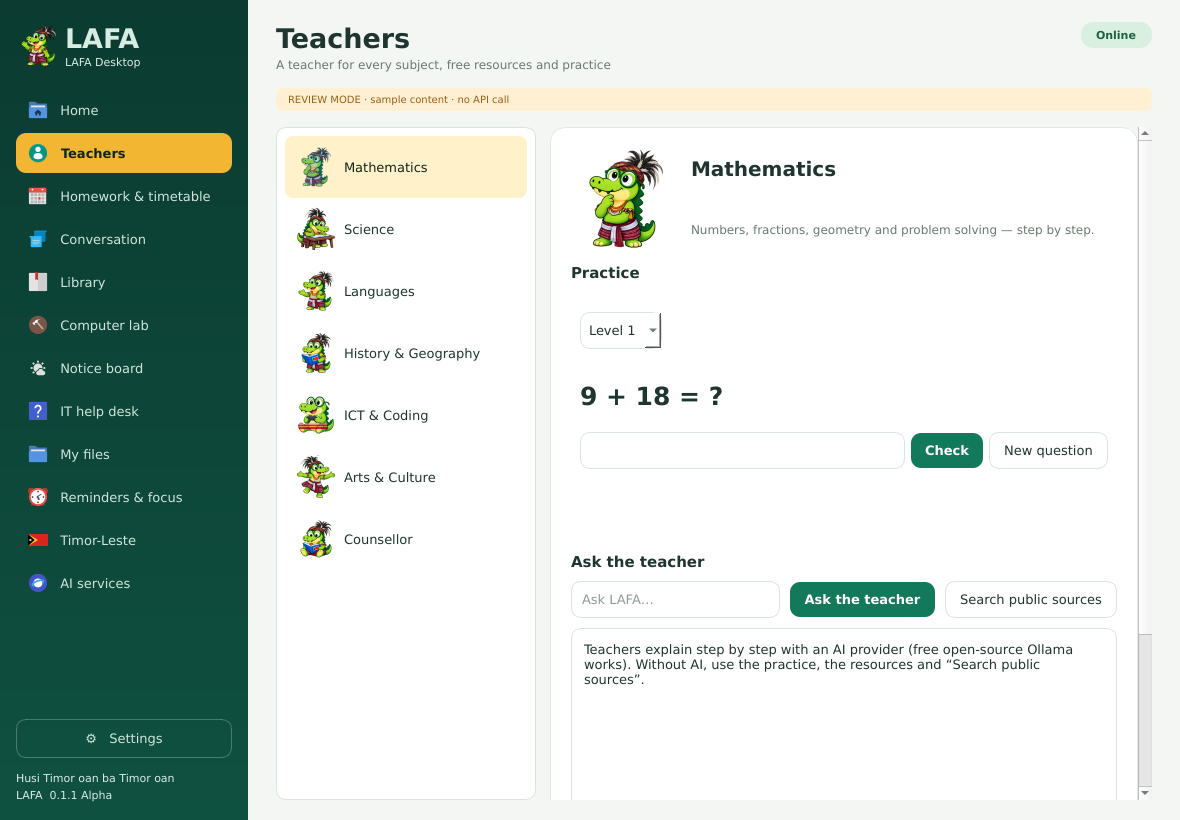
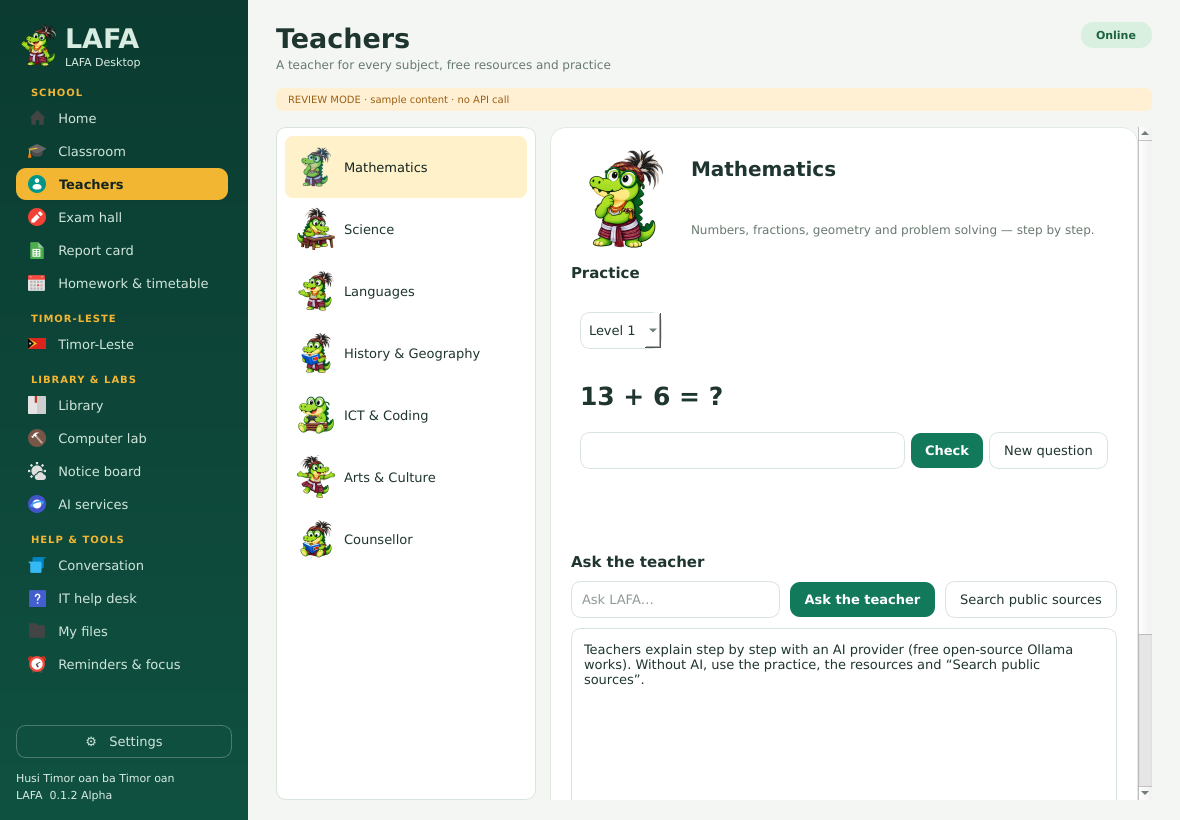
Release 0.1.2: outfits, roles, school redesign and Timor-Leste
Version 0.1.2 Alpha everywhere (tools/release.py), changelog, README and
developer docs, 43 reviewed screenshots (classroom, exam hall, report card,
Timor-Leste history and nation, roles, mind reader, every pose in Tuxedo
and Casual) and tests for the new school, Timor-Leste data and roles.

Claude-Session: https://claude.ai/code/session_011i3PKk2n6L4AoQpBWLcDTx

diff --git a/scripts/capture-screenshots.py b/scripts/capture-screenshots.py
@@ -26,7 +26,8 @@ from lafa.tools import FileSearch, Source
 from lafa.live_info import Location, WeatherReport, ForecastDay, NewsReport
 from lafa.learning import LessonPython
 from lafa.i18n import tr
-from lafa import personality, osguide, outfits
+from lafa import personality, osguide, outfits, classroom, roles
+import random
 
 out = ROOT / 'docs/screenshots'; out.mkdir(parents=True, exist_ok=True)
 for old in out.glob('*.png'): old.unlink()
@@ -63,13 +64,31 @@ weather = WeatherReport(Location('Dili', -8.5586, 125.5736, 'Asia/Dili', 'Timor-
 w.show_weather(weather); w.show_news(NewsReport([Source('Sample headline to review the news layout', 'https://www.bbc.com/news/world', '', 'BBC World · SAMPLE', 'REVIEW SAMPLE'), Source('Open a headline on the publisher website', 'https://www.theguardian.com/world', '', 'The Guardian · SAMPLE', 'REVIEW SAMPLE')], 'REVIEW SAMPLE · not current news'))
 w.navigate('live'); save(w, '11-notice-board.png')
 w.show_timor_news(NewsReport([Source('SAMPLE · Learning and education in Timor-Leste', 'https://tatoli.tl/', '', 'Tatoli · SAMPLE', 'REVIEW SAMPLE'), Source('SAMPLE · Arts, culture and community life', 'https://timorpost.com/', '', 'Timor Post · SAMPLE', 'REVIEW SAMPLE')], 'REVIEW SAMPLE · not live headlines'))
-w.navigate('culture'); save(w, '12-timor-leste.png')
+w.navigate('culture'); w.timor_tabs.setCurrentIndex(2); save(w, '12-timor-leste.png')
 with tempfile.TemporaryDirectory(prefix='lafa-review-') as files:
     root = Path(files) / 'Documents'; root.mkdir()
     for name in ['Lesson_Photosynthesis.txt', 'Lesson_Mathematics.txt', 'Timor_Leste_Notes.md', 'Lesson_Schedule.csv']: (root / name).write_text('REVIEW SAMPLE', encoding='utf-8')
     w.settings.roots = [str(root)]; w.show_files(FileSearch(w.settings.roots).search('', 'documents')); w.navigate('files'); pump(); w.file_table.selectRow(0); save(w, '13-my-files.png')
 w.navigate('hub'); save(w, '14-ai-services.png')
 w.set_online(False); w.navigate('home'); morning(w); save(w, '15-offline.png'); w.set_online(True)
+# School: classroom, exam hall, report card, Timor-Leste, roles.
+w.navigate('classroom'); w.class_subject.setCurrentIndex(w.class_subject.findData('science')); w.lesson_list.setCurrentRow(1); save(w, '32-classroom.png')
+def exam(kind, subject, seed, right):
+    w.navigate('exams'); w.start_exam(kind, subject); w.exam = classroom.ExamSession(kind, subject, w.settings.locale, random.Random(seed)); w.show_exam_question()
+    for i in range(right[0]):
+        q = w.exam.current; w.answer_exam(next(j for j, b in enumerate(w.exam_buttons) if b.property('option') == (q.correct if i % right[1] else q.options[0] if q.options[0] != q.correct else q.options[1]))); w.show_exam_question()
+exam('quiz', 'math', 3, (5, 5)); w.finish_exam()
+exam('exam', 'all', 11, (4, 3)); w.exam.started -= 260; w.tick_exam(); save(w, '33-exam-hall.png')
+while w.exam.current: exam_q = w.exam.current; w.answer_exam(next(j for j, b in enumerate(w.exam_buttons) if b.property('option') == exam_q.correct)); w.show_exam_question()
+exam('test', 'history', 5, (10, 4)); save(w, '34-exam-result.png')
+w.navigate('report'); save(w, '35-report-card.png')
+w.navigate('culture'); w.timor_tabs.setCurrentIndex(0); w.timeline.setCurrentRow(next(i for i, e in enumerate(w.timeline_events) if e and e.year == 1999)); save(w, '36-timor-leste-history.png')
+w.timor_tabs.setCurrentIndex(1); save(w, '37-timor-leste-nation.png')
+w.navigate('home'); morning(w); w.play_role('magician'); w.role_pet.animate(False)
+w.findChildren(__import__(BINDING + '.QtWidgets', fromlist=['QScrollArea']).QScrollArea)[0].verticalScrollBar().setValue(330); save(w, '38-home-roles.png')
+w.open_mind_reader(); pump(); save(w.mind_dialog, '39-mind-reader.png')
+for i in range(6): w.mind_dialog.mind_answer(i in (0, 2, 4))
+save(w.mind_dialog, '40-mind-reader-result.png'); w.mind_dialog.close()
 w.open_settings(); pump()
 for row, name in [(0, '16-lafa-settings-virtual-assistant.png'), (3, '17-lafa-settings-desktop.png')]:
     w.settings_categories.setCurrentRow(row); save(w.settings_dialog, name)
@@ -146,6 +165,10 @@ sheet('25-outfits.png', 'LAFA · three outfits', 'Tais Mane (default), Tuxedo an
       [(s, o, tr('en', o), tr('en', s)) for o in outfits.OUTFITS for s in ['idle', 'talking', 'walking']], columns=3, size=210)
 sheet('26-formal-activities.png', 'Tuxedo · formal activities', 'Each activity is a pose of the outfit plus a small scene.', [(a, 'tuxedo', tr('en', a), personality.duty('en', a)) for a in outfits.FORMAL])
 sheet('27-casual-activities.png', 'Casual · summer activities', 'Beach, town, café and shopping.', [(a, 'casual', tr('en', a), personality.duty('en', a)) for a in outfits.CASUAL])
+sheet('41-lafa-roles.png', "LAFA's roles · every outfit", 'Teacher, professor, motivator, magician, master and comedian.',
+      [(a, o, tr('en', a), tr('en', o)) for o in outfits.OUTFITS for a in outfits.ROLES], columns=6, size=170)
+for o, title in [('tuxedo', 'Tuxedo on every pose'), ('casual', 'Casual on every pose: shirt, shorts, socks and sneakers')]:
+    sheet(f'42-{o}-all-poses.png' if o == 'tuxedo' else '43-casual-all-poses.png', title, 'Only bathing and the toilet are undressed.', [(s, o, tr('en', s), '') for s in STATES if s not in ('tebe', 'bidu')], columns=5, size=170)
 sheet('28-tais-mane-activities.png', 'Tais Mane · school and daily life', 'The default outfit, including Tebe-tebe and Bidu dances.', [(a, 'traditional', tr('en', a), personality.duty('en', a)) for a in outfits.TRADITIONAL], columns=5, size=170)
 
 with patch.dict(os.environ, {'LC_ALL': 'tet_TL.UTF-8'}):

diff --git a/lafa/app.py b/lafa/app.py
@@ -441,7 +441,9 @@ class Window(QMainWindow):
         if kind:self.exam_kind.setCurrentIndex(self.exam_kind.findData(kind))
         if subject:self.exam_subject.setCurrentIndex(self.exam_subject.findData(subject))
         self.exam=classroom.ExamSession(self.exam_kind.currentData(),self.exam_subject.currentData(),self.settings.locale)
-        self.exam_result.hide();self.exam_feedback.clear();self.show_exam_question()
+        self.exam_result.hide();self.exam_feedback.clear()
+        for b in self.exam_buttons:b.show()
+        self.show_exam_question()
         if self.exam.limit:self.exam_timer.start(1000)
         self.tick_exam()
     def show_exam_question(self):
@@ -469,7 +471,7 @@ class Window(QMainWindow):
         exam=self.exam;self.exam_timer.stop()
         if exam is None or getattr(exam,"saved",False):return
         exam.saved=True;lang=self.settings.locale
-        for b in self.exam_buttons:b.setEnabled(False)
+        for b in self.exam_buttons:b.setEnabled(False);b.hide()
         self.report.add(exam);grade=classroom.grade(exam.percent,lang)
         summary=self.t("exam_done").replace("{score}",str(exam.score)).replace("{total}",str(exam.total)).replace("{percent}",str(exam.percent)).replace("{grade}",grade)
         self.exam_question.setText(summary);self.exam_feedback.setText(self.t("saved_report"));self.exam_progress.setText(self.t("result"))

diff --git a/lafa/__init__.py b/lafa/__init__.py
@@ -1,5 +1,5 @@
 """LAFA desktop assistant for Edukasaun OS."""
 # Single source of the version: pyproject.toml, DEBIAN/control and the
 # interface read it from here. Change it only with tools/release.py.
-__version__ = "0.1.1"
-VERSION_LABEL = "0.1.1 Alpha"
+__version__ = "0.1.2"
+VERSION_LABEL = "0.1.2 Alpha"

diff --git a/README.md b/README.md
@@ -1,6 +1,6 @@
 # LAFA
 
-**LAFA 0.1.1 Alpha** is an open-source learning assistant and animated
+**LAFA 0.1.2 Alpha** is an open-source learning assistant and animated
 crocodile companion from Timor-Leste for **Edukasaun OS** (Debian 13 Trixie,
 LXQt) and the **Eduka-Desktop Suite** (Eduka-Desktop, Eduka-Panel,
 Eduka-Settings). LAFA has **no main server**: it relies on the internet, public
@@ -15,14 +15,18 @@ and [how to keep developing LAFA](docs/DEVELOPMENT.md).
 
 ![The three outfits](docs/screenshots/25-outfits.png)
 
-[View all 31 captures](docs/SCREENSHOTS.md). Captures of LAFA on the desktop
+![Exam hall](docs/screenshots/33-exam-hall.png)
+
+![Timor-Leste history](docs/screenshots/36-timor-leste-history.png)
+
+[View all 43 captures](docs/SCREENSHOTS.md). Captures of LAFA on the desktop
 are actual LAFA pixels on an **illustrated desktop**, not Edukasaun OS.
 
 ## Install on Edukasaun OS
 
 ```bash
-sh tools/build-deb.sh                       # -> dist/lafa_0.1.1_all.deb
-sudo apt install ./dist/lafa_0.1.1_all.deb  # dependencies come from Debian
+sh tools/build-deb.sh                       # -> dist/lafa_0.1.2_all.deb
+sudo apt install ./dist/lafa_0.1.2_all.deb  # dependencies come from Debian
 ```
 
 `apt` installs every dependency automatically: `python3-pyqt5` (the same Qt
@@ -38,7 +42,7 @@ Inside Cubic it starts no GUI. Updating later is the same `apt install` command.
 
 | Surface | What it does | Entry point |
 |---|---|---|
-| **LAFA Desktop** | A complete school room: teachers, homework & timetable, library, computer lab, notice board, IT help desk, files, Timor-Leste, AI services | Edukasaun menu; `lafa` |
+| **LAFA Desktop** | A complete school: classroom lessons, teachers, exam hall (quiz, test, exam), report card, homework & timetable, Timor-Leste history and symbols, library, computer lab, notice board, IT help desk, files, AI services | Edukasaun menu; `lafa` |
 | **LAFA Virtual Assistant** | The character on the Eduka-Panel: walks, does activities that suit its outfit, asks “Can I help?” on hover, chats on click | Activate on Home or in Lafa-Configuration; `lafa --virtual` |
 | **Eduka-Settings → Lafa-Configuration** | Every LAFA preference: activation, outfit, size, speeds, personality, LAFA Desktop, language, AI, folders, weather | `lafa --configure` (falls back to LAFA's own window `lafa --settings`) |
 
@@ -61,6 +65,28 @@ Inside Cubic it starts no GUI. Updating later is the same `apt install` command.
 ## What LAFA does
 
 **LAFA Desktop — a complete school**
+
+The sidebar is organised like a school building: **School** (lobby,
+classroom, teachers' room, exam hall, report card, homework), **Timor-Leste**,
+**Library & labs** and **Help & tools**.
+
+- **Classroom**: lessons with study notes and a task to try for every
+  subject, including Timor-Leste history lessons built from the timeline.
+- **Exam hall**: **quiz** (5 questions, instant feedback), **test / ulangan**
+  (10 questions on one subject) and **exam / ujian** (20 questions from all
+  subjects, 20-minute timer), with a review of every mistake. Works offline.
+- **Report card**: results saved privately on the computer, averages, best
+  scores and grades, export to a text file.
+- **Timor-Leste**: history from the first people of Jerimalai (c. 42,000
+  years ago) through Portuguese Timor, the occupation and resistance, the 1999
+  referendum, the restoration of independence on 20 May 2002 and ASEAN
+  membership in 2025; national facts and symbols, municipalities and main
+  towns, public holidays, "today in Timor-Leste", and the news and culture
+  feed.
+- **Lobby**: word of the day in four languages, LAFA's daily motivation, today
+  in Timor-Leste or the next holiday, and **LAFA's roles**: teacher,
+  professor, motivator, magician (a binary mind-reading trick), master,
+  comedian and helper.
 - **Teachers**: Mathematics, Science, Languages, History & Geography, ICT &
   Coding, Arts & Culture and a Counsellor. Each has free learning resources,
   **offline practice** (maths exercises in three levels, vocabulary cards
@@ -79,12 +105,17 @@ Inside Cubic it starts no GUI. Updating later is the same `apt install` command.
   from its open-source repository, and announces new LAFA releases.
 
 **LAFA Virtual Assistant**
-- **Three outfits**: **Tais Mane** (default), **Tuxedo** and **Casual**. The
+- **Three outfits**: **Tais Mane** (default), **Tuxedo** (jacket, shirt, bow
+  tie, trousers, shoes) and **Casual** (shirt, shorts, socks and sneakers),
+  worn in every activity except bathing and the toilet. The
   outfit decides the activities: Tais Mane — school and daily life, Tebe-tebe
   and Bidu; Tuxedo — parties, meetings, presentations, graduation ceremonies,
   gala dinners, speeches; Casual — beach, sunbathing, beach ball, sightseeing,
   café, shopping, snacks. Change it in Lafa-Configuration or by right-clicking
   LAFA → Outfit.
+- **Roles** in every outfit (right-click → LAFA's roles): teacher at a
+  chalkboard, professor with a mortarboard, motivator with a trophy, magician
+  with a top hat and wand, calm master, comedian at the microphone.
 - Walks to a new spot on the Eduka-Panel, then does an activity, then walks
   again. **Cursor touches LAFA → it stops and asks how it can help**, in
   character and reacting to what it is doing. Innocent, curious, clever and

diff --git a/docs/SCREENSHOTS.md b/docs/SCREENSHOTS.md
@@ -1,4 +1,4 @@
-# Screenshot review — LAFA 0.1.1 Alpha
+# Screenshot review — LAFA 0.1.2 Alpha
 
 Regenerate after every UI change so developers can review and keep improving:
 
@@ -26,7 +26,7 @@ homework go to a temporary folder. Weather, headlines and sources are labelled
 | 09 | `09-library.png` | Library (public sources, learning sites) |
 | 10 | `10-computer-lab.png` | Computer lab (bounded Python lessons) |
 | 11 | `11-notice-board.png` | Notice board: weather and world headlines (sample) |
-| 12 | `12-timor-leste.png` | Timor-Leste news and culture (sample) |
+| 12 | `12-timor-leste.png` | Timor-Leste · news and culture tab (sample) |
 | 13 | `13-my-files.png` | File search in temporary sample folders |
 | 14 | `14-ai-services.png` | AI services opened in the browser |
 | 15 | `15-offline.png` | Offline state |
@@ -46,6 +46,18 @@ homework go to a temporary folder. Weather, headlines and sources are labelled
 | 29 | `29-home-tetun.png` | Home in Tetun |
 | 30 | `30-teachers-tetun.png` | Arts & Culture teacher in Tetun |
 | 31 | `31-home-eduka-dark-theme.png` | LAFA following the Edukasaun-Dark theme and accent colour |
+| 32 | `32-classroom.png` | Classroom: lesson notes and a task (Science · coral reefs of Timor-Leste) |
+| 33 | `33-exam-hall.png` | Exam hall: 20-question exam with the timer |
+| 34 | `34-exam-result.png` | Test result with grade and review of mistakes |
+| 35 | `35-report-card.png` | Report card: averages, best scores, grades and history |
+| 36 | `36-timor-leste-history.png` | Timor-Leste history timeline (1999 referendum) |
+| 37 | `37-timor-leste-nation.png` | Nation and symbols, municipalities and public holidays |
+| 38 | `38-home-roles.png` | Lobby: word of the day, LAFA says, today in Timor-Leste, LAFA's roles (magician) |
+| 39 | `39-mind-reader.png` | Magician's mind reader: binary card |
+| 40 | `40-mind-reader-result.png` | Mind reader result and the maths behind it |
+| 41 | `41-lafa-roles.png` | LAFA's roles in every outfit |
+| 42 | `42-tuxedo-all-poses.png` | Tuxedo on every pose |
+| 43 | `43-casual-all-poses.png` | Casual on every pose: shirt, shorts, socks and sneakers |
 
 Captures 20–24 are **compositions of actual LAFA widget pixels on a painted
 desktop and panel**, not screenshots of Edukasaun OS. Captures 18–19 run the
@@ -58,4 +70,7 @@ art by `tools/make-outfits.py`; hand-drawn sheets can replace them.
 ![Home](screenshots/01-home.png)
 ![Lafa-Configuration in Eduka-Settings](screenshots/18-eduka-settings-lafa-configuration.png)
 ![Outfits](screenshots/25-outfits.png)
+![Exam hall](screenshots/33-exam-hall.png)
+![Timor-Leste](screenshots/36-timor-leste-history.png)
+![Casual on every pose](screenshots/43-casual-all-poses.png)
 ![Teachers](screenshots/02-teachers-mathematics.png)

diff --git a/CHANGELOG.md b/CHANGELOG.md
@@ -4,6 +4,48 @@
 
 _Nothing yet._
 
+## 0.1.2 — 2026-10-06
+
+### Outfits fixed
+- Clothes are rebuilt with garment shapes per pose that end on the drawn
+  outlines; no more cut, broken or straight-band clothes.
+- **Casual**: sky-blue shirt, khaki **shorts**, white **socks** and red
+  sneakers. **Tuxedo**: one piece with a V shirt front, collar, bow tie,
+  black trousers and polished shoes. **Tais Mane**: wrap, sash, beads and
+  belak on every pose without hand-drawn art.
+- Every activity is dressed (sleeping too) except bathing and the toilet.
+- `python3 tools/make-outfits.py --preview` shows every pose in every outfit.
+
+### LAFA's roles
+- One character, many hats: **teacher, professor, motivator, magician,
+  master, comedian and helper**. Each role has an activity with its own scene
+  (chalkboard, mortarboard and books, trophy and stars, top hat and wand,
+  calm scroll and chess, microphone and spotlight) in every outfit, lines in
+  four languages, and a "LAFA's roles" menu on the Virtual Assistant.
+- Magician's **mind reader**: six binary cards guess any number from 1 to 63
+  and explain the maths.
+
+### LAFA Desktop is a school
+- Sidebar organised like a school building: **School** (lobby, classroom,
+  teachers' room, exam hall, report card, homework), **Timor-Leste**,
+  **Library & labs** and **Help & tools**.
+- **Classroom**: lessons with study notes and a task for every subject; Timor-
+  Leste history lessons come from the timeline.
+- **Exam hall**: quiz (5 questions, instant feedback), test/ulangan (10 on
+  one subject) and exam/ujian (20 from all subjects, 20-minute timer), with a
+  review of mistakes. Questions: school banks, generated maths, vocabulary
+  between Tetun, Portuguese, English and Indonesian, and Timor-Leste history,
+  municipalities and holidays.
+- **Report card**: every result saved privately (`~/.local/share/lafa/report.json`,
+  mode 0600), averages, best scores, grades, and export to a text file.
+- **Timor-Leste**: history from the first people of Jerimalai (c. 42,000 years
+  ago) through Portuguese Timor, occupation and resistance, the 1999
+  referendum, the restoration of independence (20 May 2002) and ASEAN
+  membership (2025); national facts and symbols, the 14 municipalities and
+  RAEOA with main towns, public holidays, and the news and culture feed.
+- Lobby: word of the day in four languages, LAFA's daily motivation, "today
+  in Timor-Leste" or the next public holiday, and the roles panel.
+
 ## 0.1.1 — 2026-10-06 · patch release (0.1.1 Alpha)
 
 ### Edukasaun OS and Eduka-Desktop Suite

diff --git a/docs/VALIDATION.md b/docs/VALIDATION.md
@@ -1,4 +1,4 @@
-# Validation — LAFA 0.1.1 Alpha
+# Validation — LAFA 0.1.2 Alpha
 
 Checks run on 6 October 2026 in a headless Linux container (Ubuntu 24.04 with
 Qt offscreen). Not yet tested on Edukasaun OS hardware.
@@ -7,9 +7,9 @@ Qt offscreen). Not yet tested on Edukasaun OS hardware.
 |---|---|
 | Automated tests, **PyQt5** (Qt 5.15, Edukasaun OS stack) | **171 passed**, 0 skipped; see `test-results.txt` |
 | Automated tests, **PySide6** (Qt 6.11) | **171 passed**, 0 skipped |
-| Debian package | `sh tools/build-deb.sh` → `lafa_0.1.1_all.deb` (13.5 MB); `apt install ./lafa_0.1.1_all.deb` resolved python3-pyqt5, libqt5svg5, python3-keyring, python3-secretstorage, fonts-noto-color-emoji and libglib2.0-bin from the archive; postinst ran without starting a GUI |
-| Installed package smoke test | `/usr/bin/lafa --help`; LAFA Desktop built from `/usr/lib/lafa` with the system PyQt5 (12 pages, 3 outfits) |
-| Version | `tools/release.py check`: `lafa/__init__.py`, `packaging/DEBIAN/control` and `CHANGELOG.md` agree on 0.1.1 |
+| Debian package | `sh tools/build-deb.sh` → `lafa_0.1.2_all.deb` (13.5 MB); `apt install ./lafa_0.1.2_all.deb` resolved python3-pyqt5, libqt5svg5, python3-keyring, python3-secretstorage, fonts-noto-color-emoji and libglib2.0-bin from the archive; postinst ran without starting a GUI |
+| Installed package smoke test | `/usr/bin/lafa --help`; LAFA Desktop built from `/usr/lib/lafa` with the system PyQt5 (15 pages, 3 outfits, exam hall) |
+| Version | `tools/release.py check`: `lafa/__init__.py`, `packaging/DEBIAN/control` and `CHANGELOG.md` agree on 0.1.2 |
 | Eduka-Settings integration | Plugin-pages patch applied to a copy of Eduka-Desktop 0.9.24; the real `eduka-settings` lists Lafa-Configuration under APPS, styles it with Eduka's QSS and live-applies (screenshots 18–19) |
 | Eduka compatibility (fixtures) | Language (Tetun from Eduka-Settings), panel geometry (floating/full/short), dark theme and accent, agenda format, notification arguments, XWayland preference |
 | Screenshots | 31 captures regenerated with PyQt5 and Papirus icons, visually inspected |

diff --git a/docs/ARCHITECTURE.md b/docs/ARCHITECTURE.md
@@ -23,12 +23,15 @@ of API access and belongs to the user's browser.
 
 | Module | Responsibility |
 |---|---|
-| app | Desktop pages (Home, Chat, Edukasaun OS help, Files, Learn, Coding, Weather & news, Reminders, Timor-Leste, AI services), Eduka-Settings-style settings window, live reload, worker delivery, tray |
+| app | Desktop pages grouped like a school (lobby, classroom, teachers, exam hall, report card, homework; Timor-Leste; library, lab, notice board, AI services; chat, IT help desk, files, reminders), Eduka-Settings-style settings window, live reload, worker delivery, tray |
 | mascot | Atlases, costumes, chat bubble, hover/thought balloon, walk-then-activity cycle on the Eduka-Panel (X11), popup clock |
 | qt | Single Qt import point: PyQt5 (Edukasaun OS) or PySide6 (developers) |
 | eduka | Eduka-Desktop suite compatibility: language, panel geometry, theme/accent, notifications, agenda, XWayland, Lafa-Configuration launcher |
-| outfits | Tais Mane / Tuxedo / Casual, outfit activities and their vector scenes, Timor-Leste flag icon |
+| outfits | Tais Mane / Tuxedo / Casual, outfit and role activities, their vector scenes and hats, Timor-Leste flag icon |
 | school | Teachers, offline practice (maths, vocabulary, quizzes, tips), homework and timetable storage |
+| classroom | Lessons, question generation, quiz/test/exam sessions with time limits, grades and the private report card |
+| timorleste | Timor-Leste history timeline, national facts, municipalities, public holidays, today in history, generated history questions |
+| roles | LAFA's roles (teacher, professor, motivator, magician, master, comedian, helper), daily items and the binary mind reader |
 | updates | Validated online source catalog, cache, merge, release check |
 | personality | LAFA's character: assistant duty per activity, hover questions, activity reactions, self-talk and jokes in EN/ID/PT/TET |
 | osguide | Offline Edukasaun OS guides, fixed tool allowlist launched without a shell, read-only system check, tips |

diff --git a/docs/DEVELOPMENT.md b/docs/DEVELOPMENT.md
@@ -47,7 +47,9 @@ screenshots (downloadable as workflow artifacts).
 | Eduka-Desktop compatibility | `lafa/eduka.py` (language, panel, theme, notifications, agenda) |
 | Virtual Assistant | `lafa/mascot.py`, `lafa/personality.py`, `lafa/outfits.py` |
 | Outfit art | `tools/make-outfits.py` → `lafa/assets/lafa-{tuxedo,casual,tais}.png` |
-| LAFA Desktop (school) | `lafa/app.py`, `lafa/school.py`, `lafa/osguide.py`, `lafa/learning.py` |
+| LAFA Desktop (school) | `lafa/app.py`, `lafa/school.py`, `lafa/classroom.py` (lessons, exams, report card), `lafa/osguide.py`, `lafa/learning.py` |
+| Timor-Leste content | `lafa/timorleste.py` (history, symbols, municipalities, holidays) |
+| LAFA's roles | `lafa/roles.py`, role texts in `lafa/personality.py`, scenes in `lafa/outfits.py` |
 | Lafa-Configuration (Eduka-Settings) | `integration/eduka_lafa_settings.py`, `integration/lafa-page.json` |
 | Eduka-Settings plugin pages | `integration/eduka-settings-plugin-pages.patch` (apply to Eduka-Desktop) |
 | Online source catalog | `lafa/assets/catalog.json`, `lafa/updates.py` |

diff --git a/docs/EDUKA-INTEGRATION.md b/docs/EDUKA-INTEGRATION.md
@@ -5,7 +5,7 @@ roles inside one same-user process. They can be visible independently. Opening
 Desktop does not enable the character. Disabling the character keeps Desktop
 available. Settings is a dedicated top-level dialog.
 
-## LAFA 0.1.1 on Edukasaun OS (Eduka-Desktop Suite 0.9.24)
+## LAFA 0.1.2 on Edukasaun OS (Eduka-Desktop Suite 0.9.24)
 
 ### What the `lafa` Debian package installs
 
